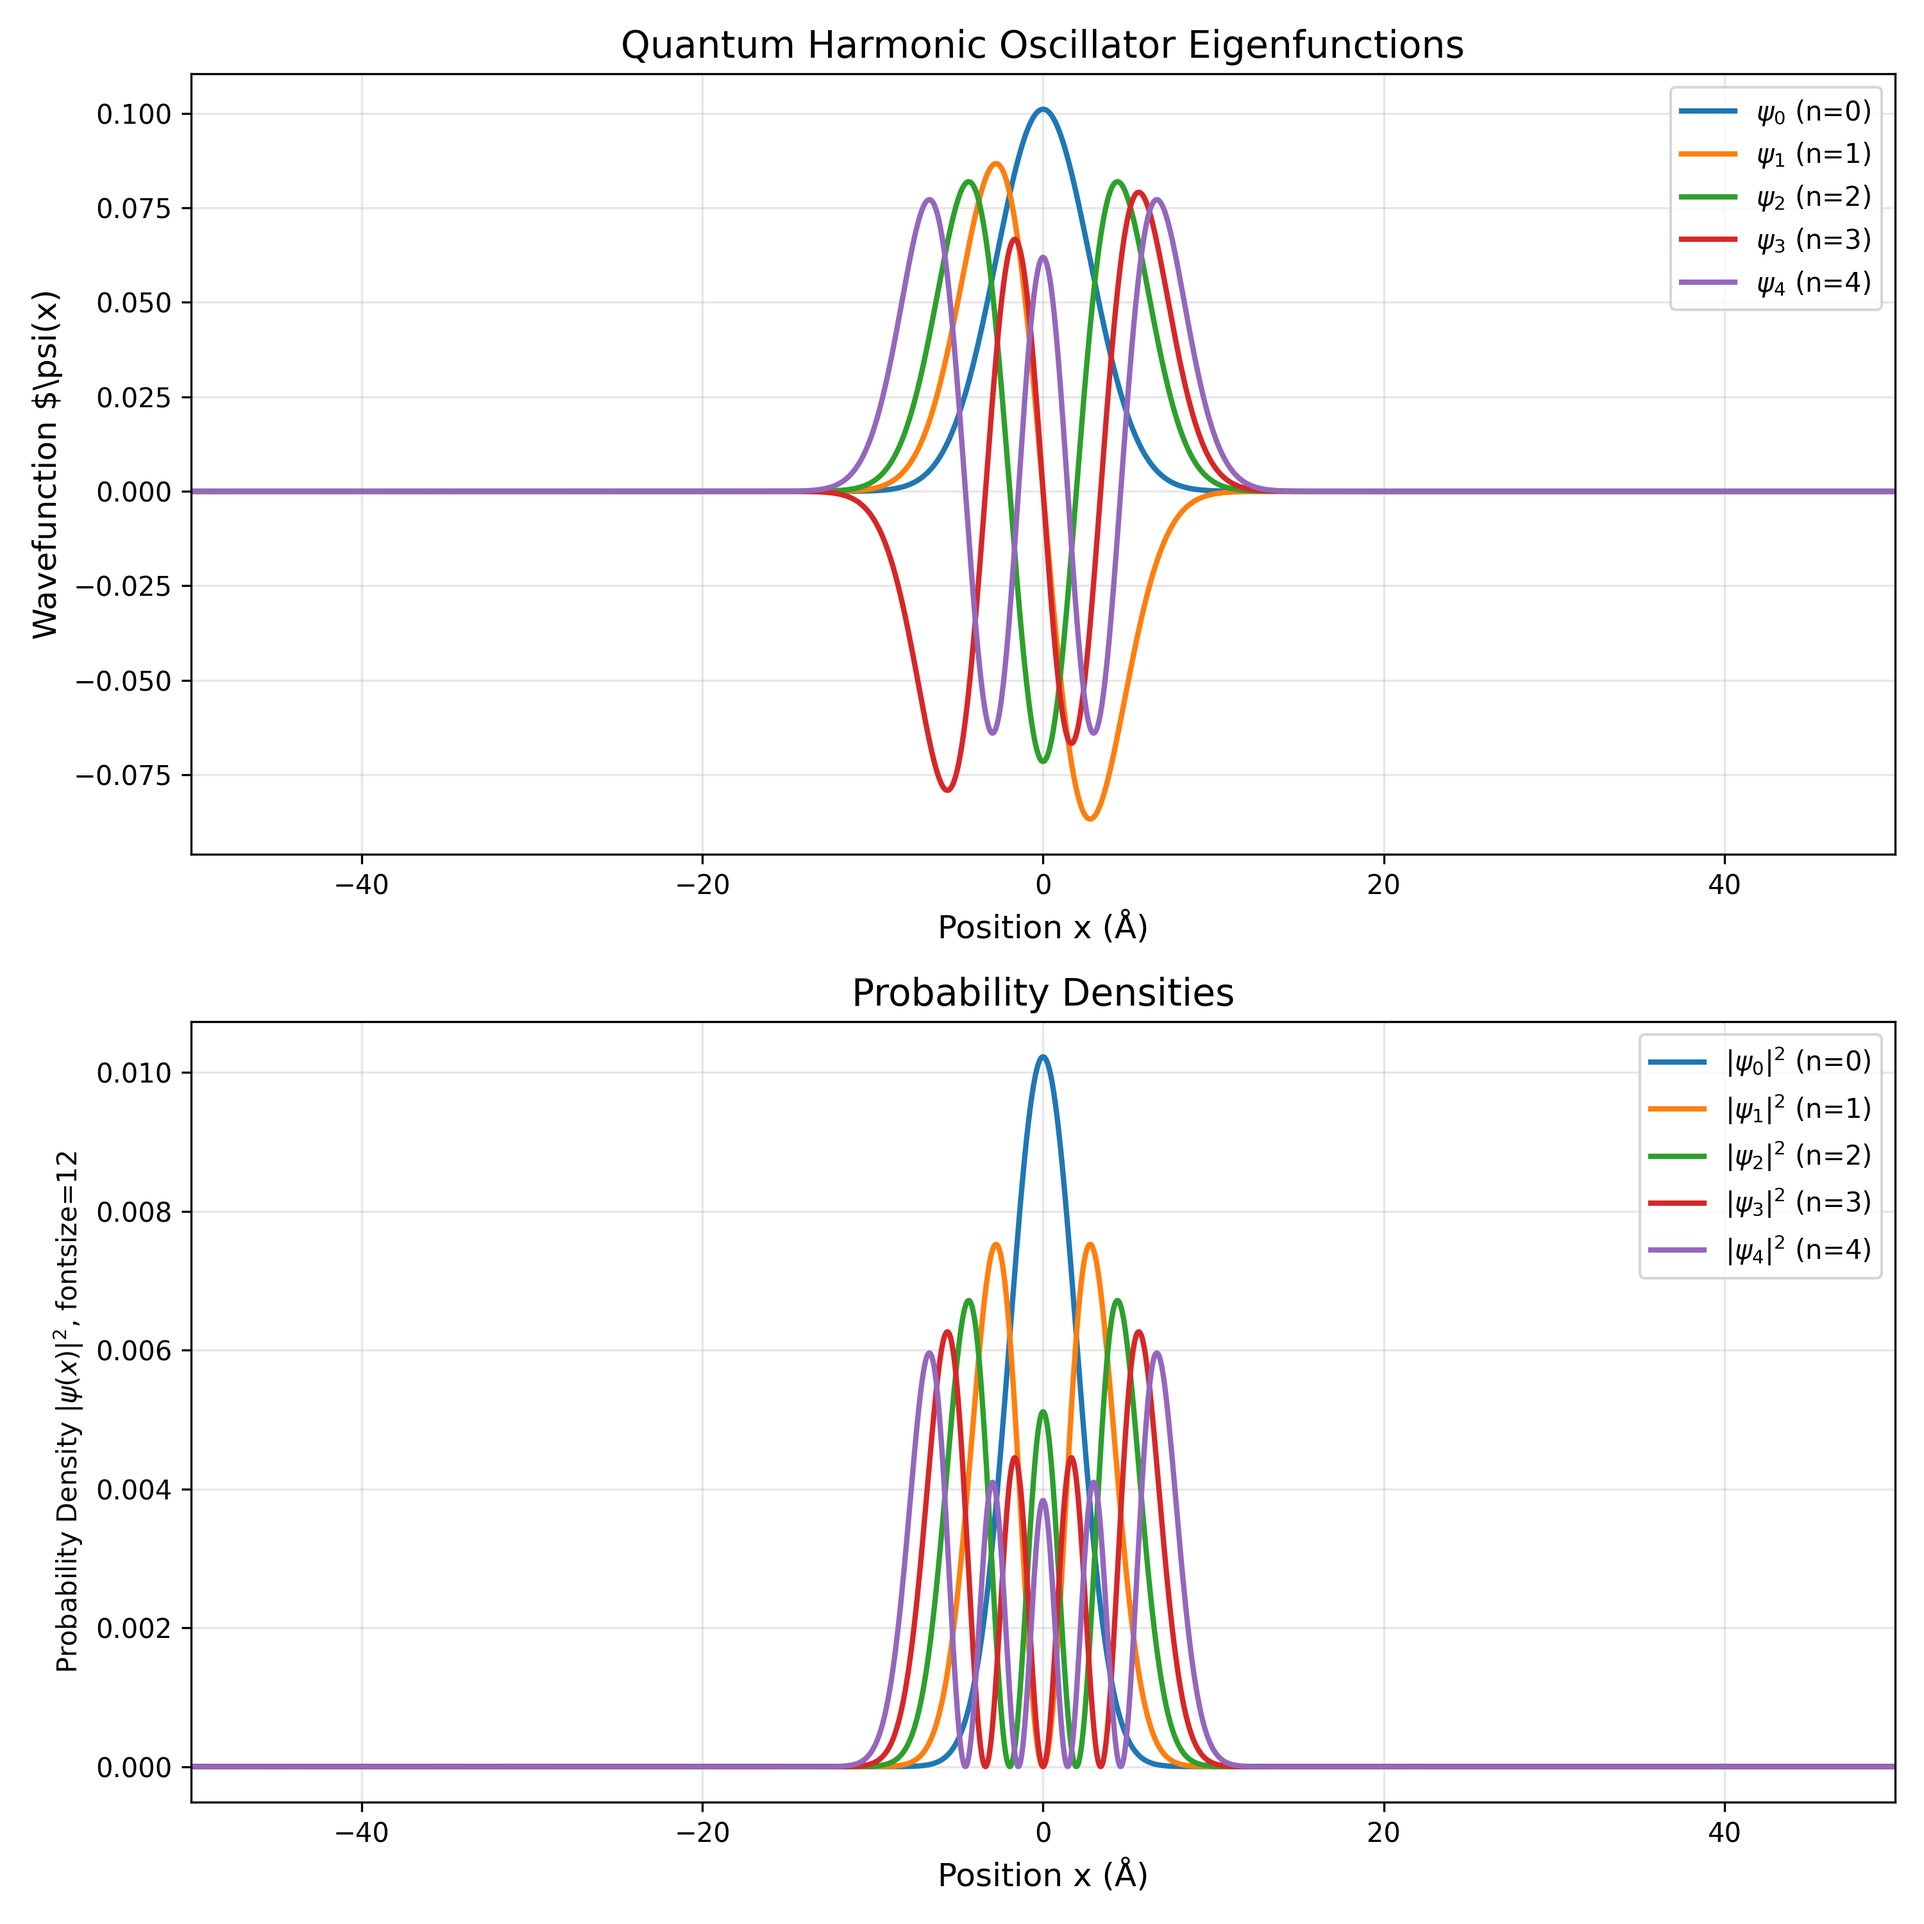
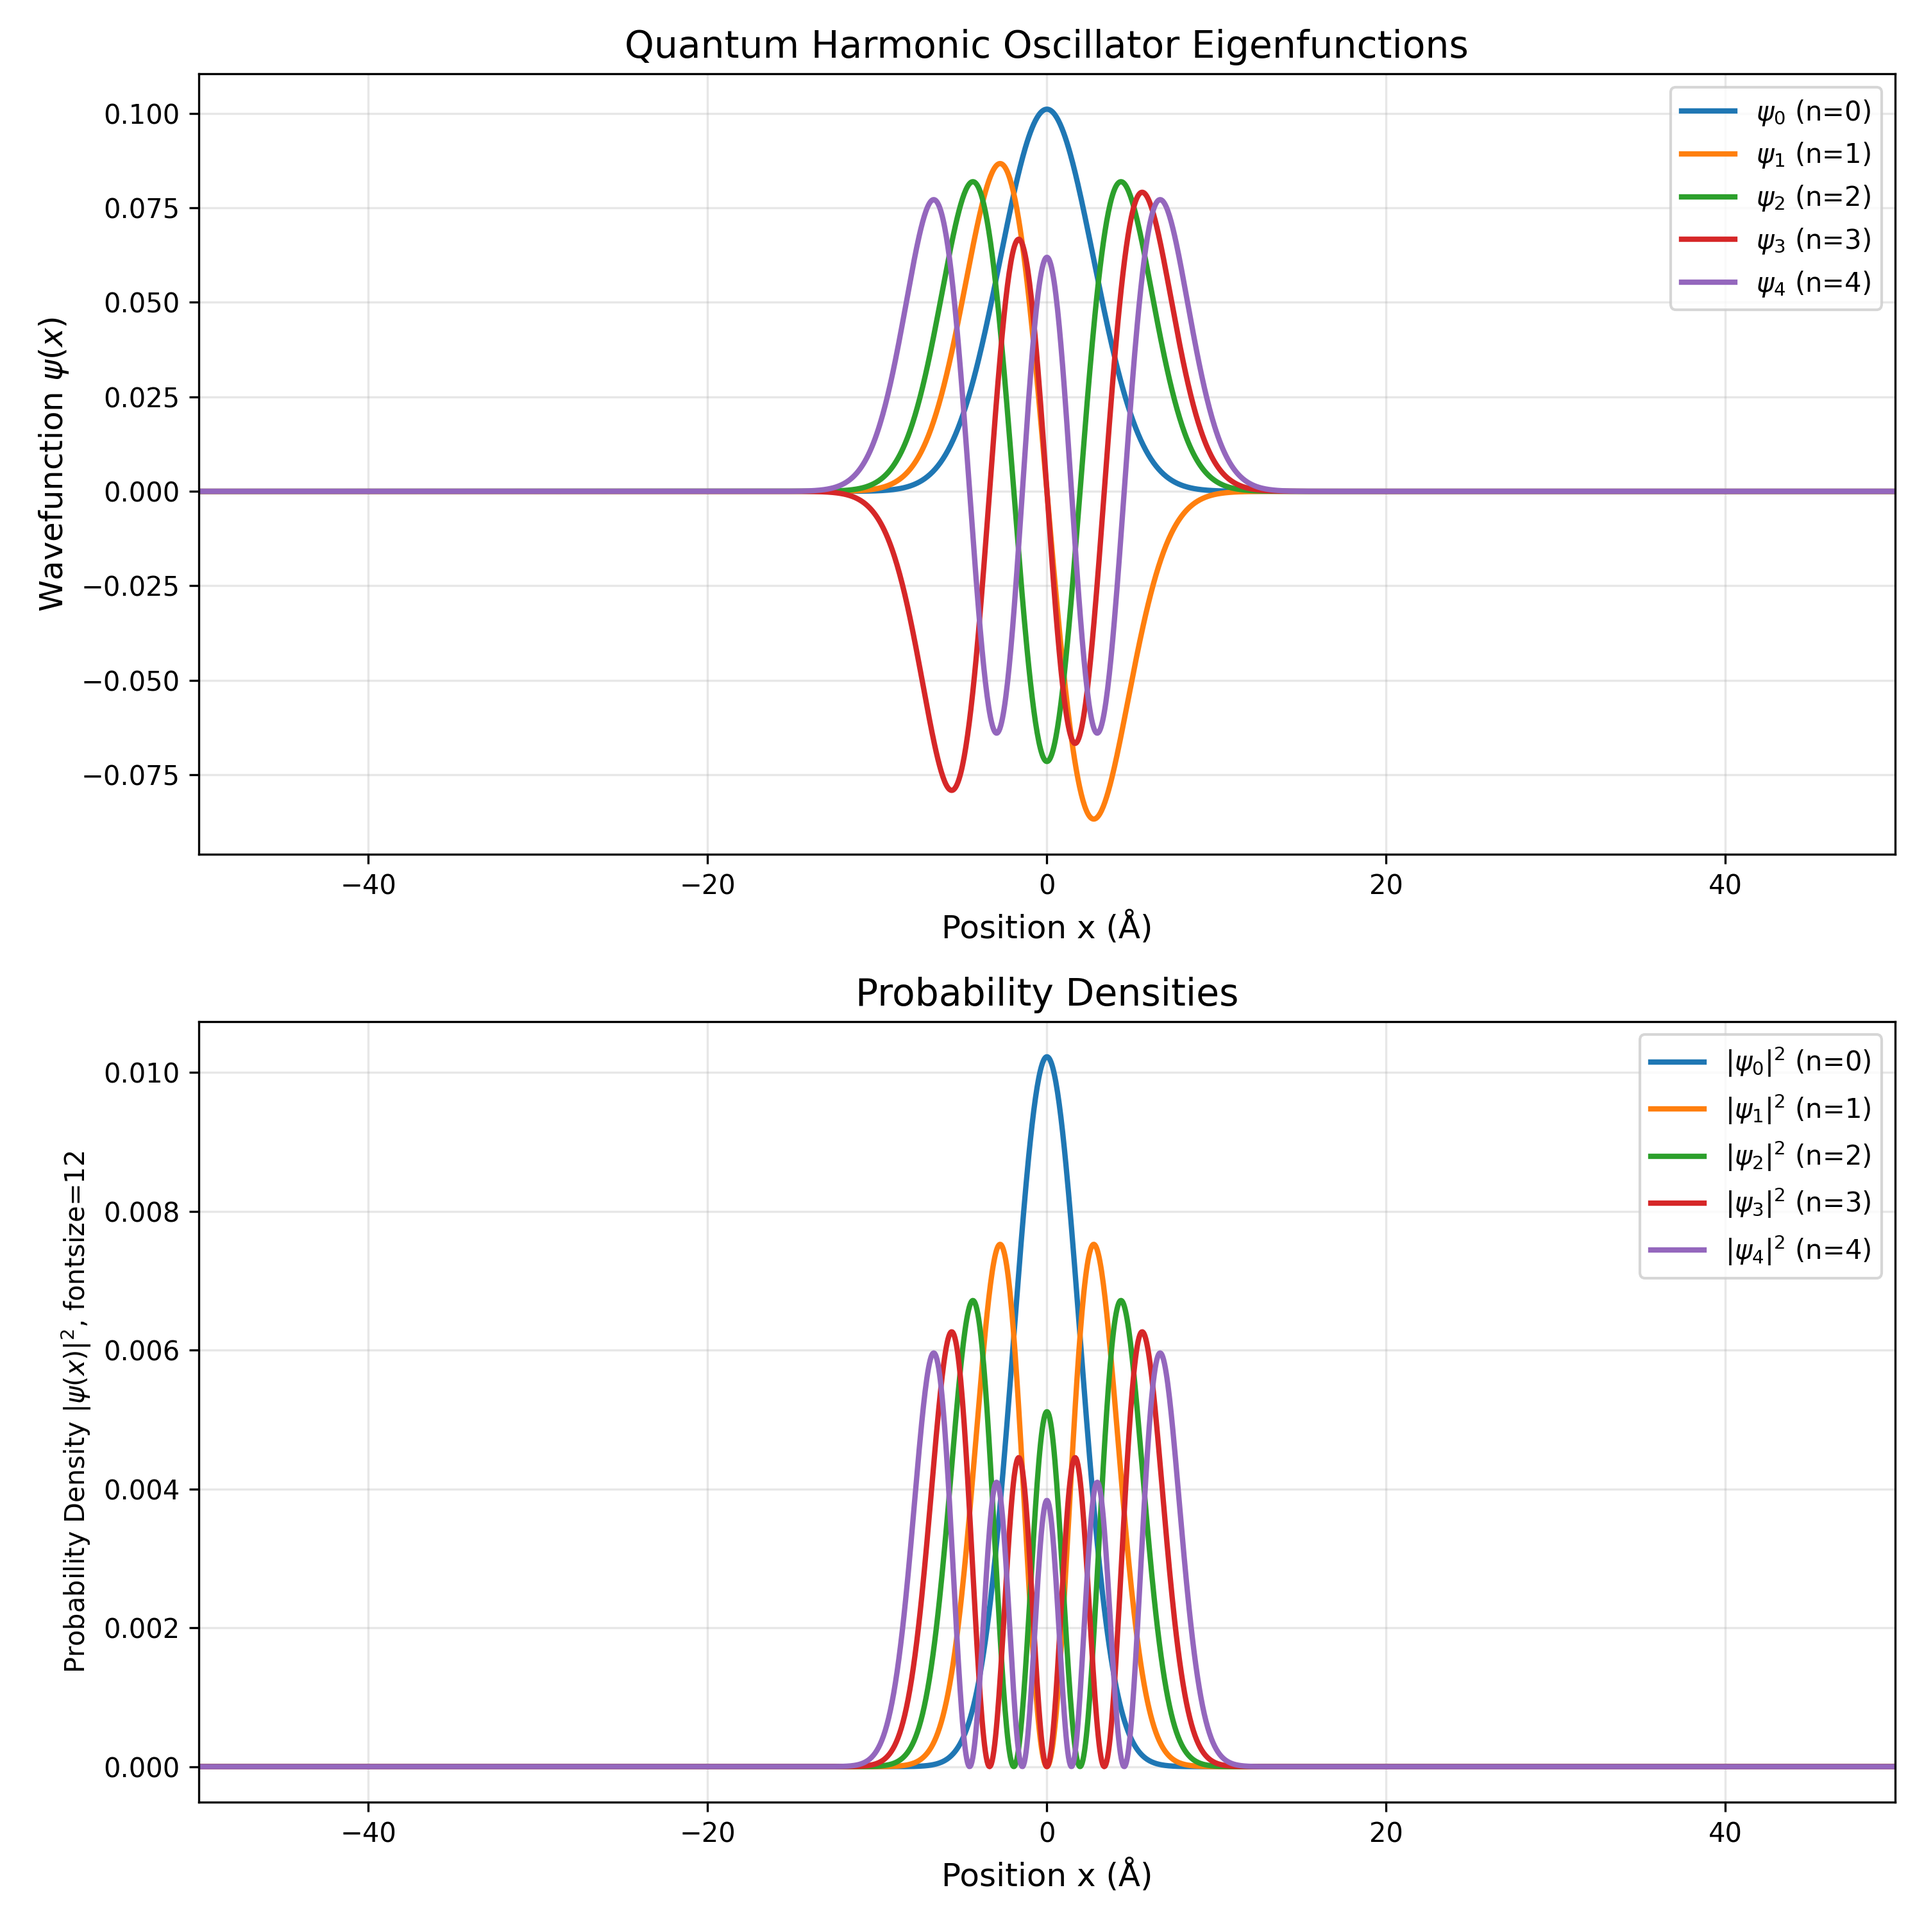
fixed minor typo

diff --git a/plotting/plots.py b/plotting/plots.py
@@ -30,7 +30,7 @@ ax1.plot(x, psi3, label='$\psi_2$ (n=2)', linewidth=2)
 ax1.plot(x, psi4, label='$\psi_3$ (n=3)', linewidth=2)
 ax1.plot(x, psi5, label='$\psi_4$ (n=4)', linewidth=2)
 ax1.set_xlabel('Position x (Å)', fontsize=12)
-ax1.set_ylabel('Wavefunction $\psi(x)', fontsize=12)
+ax1.set_ylabel('Wavefunction $\psi(x)$', fontsize=12)
 ax1.set_title('Quantum Harmonic Oscillator Eigenfunctions', fontsize=14)
 ax1.legend(fontsize=10)
 ax1.grid(True, alpha=0.3)
